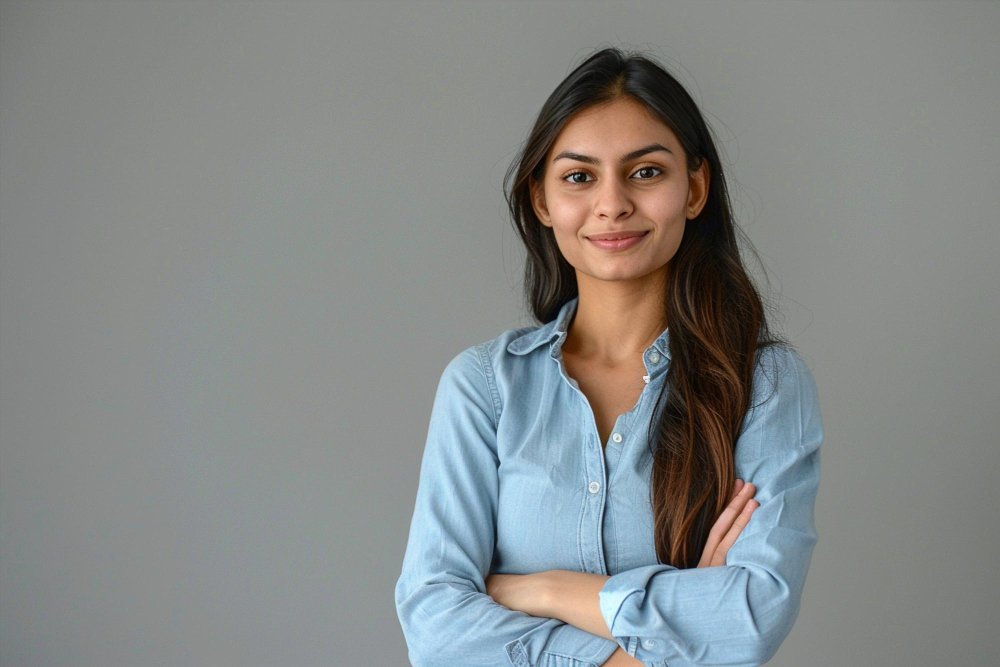
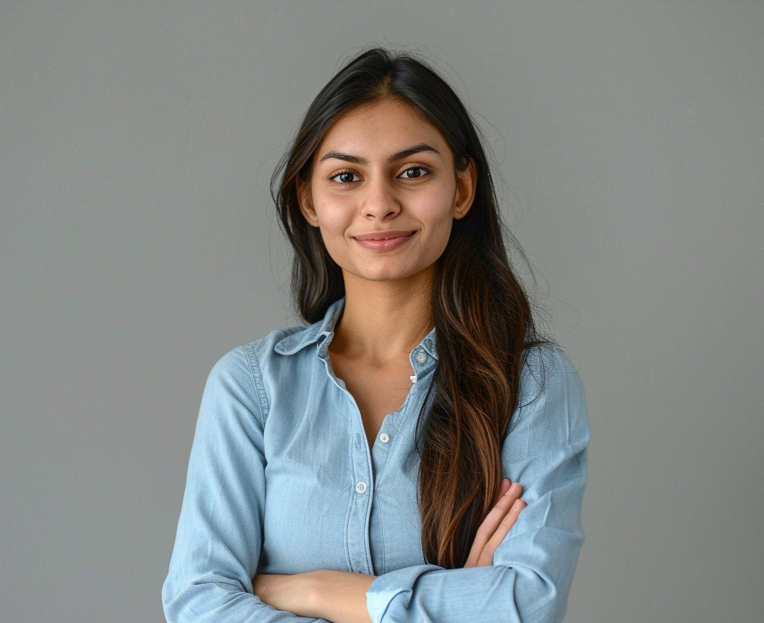
resize the image and increase the gap-between the div's

diff --git a/src/components/HearFromSection.tsx b/src/components/HearFromSection.tsx
@@ -69,7 +69,7 @@ const HearFromSection = () => {
           style={{
             display: "grid",
             gridTemplateColumns: "repeat(auto-fit, minmax(380px, 2fr))",
-            gap: "70px 40px",
+            gap: "90px 40px",
           }}
         >
           {TESTIMONIALS.map((item, index) => (
